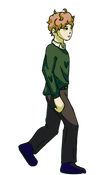
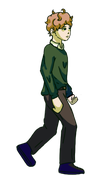
Арт художниц: гардероб, сцена спасения, новые кадры героя

diff --git a/tools/prepare_character.py b/tools/prepare_character.py
@@ -2,7 +2,8 @@
 
 Художник рисует кадры крупно и на холстах разного размера. Скрипт уменьшает их
 до игрового роста, выравнивает по корпусу и ступням и сохраняет на одинаковых холстах,
-чтобы анимация не дёргалась.
+чтобы анимация не дёргалась. Кадры должны быть нарисованы в одном масштабе: поля вокруг
+персонажа могут быть любыми, а сам персонаж одного размера.
 
 Запуск:
     python tools/prepare_character.py <папка для результата> <рост в пикселях> <кадр 1> <кадр 2> ...
@@ -21,6 +22,17 @@ TORSO_TOP = 0.28
 TORSO_BOTTOM = 0.46
 
 
+def content_box(image: Image.Image) -> tuple[int, int, int, int]:
+    """Находит границы персонажа на кадре.
+
+    image: кадр с прозрачным фоном.
+    Возвращает левую, верхнюю, правую и нижнюю границы плотных пикселей; полупрозрачный
+    мусор по краям не учитывается.
+    """
+    solid = image.getchannel("A").point(lambda value: 255 if value > ALPHA_SOLID else 0)
+    return solid.getbbox()
+
+
 def torso_center(image: Image.Image) -> float:
     """Находит середину корпуса по горизонтали.
 
@@ -29,7 +41,7 @@ def torso_center(image: Image.Image) -> float:
     совмещаются друг с другом.
     """
     alpha = image.getchannel("A")
-    left, top, right, bottom = alpha.getbbox()
+    left, top, right, bottom = content_box(image)
     band = alpha.crop((left, int(top + (bottom - top) * TORSO_TOP), right, int(top + (bottom - top) * TORSO_BOTTOM)))
     columns = [x for x in range(band.width) for y in range(band.height) if band.getpixel((x, y)) > ALPHA_SOLID]
     return left + statistics.fmean(columns)
@@ -44,20 +56,19 @@ def prepare(output_dir: Path, height: int, sources: list[Path]) -> None:
     Ничего не возвращает; печатает размер готового холста.
     """
     frames = [Image.open(path).convert("RGBA") for path in sources]
-    boxes = [frame.getchannel("A").getbbox() for frame in frames]
+    boxes = [content_box(frame) for frame in frames]
     scale = height / statistics.median(box[3] - box[1] for box in boxes)
     centers = [torso_center(frame) for frame in frames]
-    baseline = max(box[3] for box in boxes)
     reach = max(max(center - box[0], box[2] - center) for center, box in zip(centers, boxes))
-    rise = max(baseline - box[1] for box in boxes)
+    rise = max(box[3] - box[1] for box in boxes)
     half_width = int(reach * scale) + 2
     canvas_size = (half_width * 2, int(rise * scale) + 2)
     output_dir.mkdir(parents=True, exist_ok=True)
-    for index, (frame, center) in enumerate(zip(frames, centers), start=1):
+    for index, (frame, center, box) in enumerate(zip(frames, centers, boxes), start=1):
         size = (max(round(frame.width * scale), 1), max(round(frame.height * scale), 1))
         small = frame.resize(size, Image.LANCZOS)
         canvas = Image.new("RGBA", canvas_size, (0, 0, 0, 0))
-        canvas.alpha_composite(small, (half_width - round(center * scale), canvas_size[1] - round(baseline * scale)))
+        canvas.alpha_composite(small, (half_width - round(center * scale), canvas_size[1] - round(box[3] * scale)))
         canvas.save(output_dir / f"walk_{index}.png")
     print(f"Кадров: {len(frames)}, холст {canvas_size[0]}x{canvas_size[1]}")
 

diff --git a/tools/prepare_scene.py b/tools/prepare_scene.py
@@ -1,0 +1,45 @@
+"""Готовит слои сцены от художника к игре.
+
+Художник рисует фон и слои поверх него крупно, иногда с разным разрешением. Скрипт
+приводит все слои к одному холсту игровой высоты и убирает почти прозрачный мусор,
+который остаётся после вырезания фона.
+
+Запуск:
+    python tools/prepare_scene.py <папка для результата> <высота в пикселях> <имя=файл> <имя=файл> ...
+
+Первый файл задаёт пропорции холста. Нужна библиотека Pillow.
+Результат: файлы <имя>.png одинакового размера.
+"""
+
+import sys
+from pathlib import Path
+
+from PIL import Image
+
+ALPHA_NOISE = 40
+
+
+def prepare(output_dir: Path, height: int, layers: list[tuple[str, Path]]) -> None:
+    """Уменьшает слои до общего холста и сохраняет их в папку.
+
+    output_dir: папка, куда записать готовые слои.
+    height: высота холста в игре в пикселях.
+    layers: пары «имя результата, исходный файл»; первый слой задаёт пропорции.
+    Ничего не возвращает; печатает размер готового холста.
+    """
+    first = Image.open(layers[0][1])
+    size = (round(first.width * height / first.height), height)
+    output_dir.mkdir(parents=True, exist_ok=True)
+    for name, path in layers:
+        layer = Image.open(path).convert("RGBA").resize(size, Image.LANCZOS)
+        alpha = layer.getchannel("A").point(lambda value: 0 if value < ALPHA_NOISE else value)
+        layer.putalpha(alpha)
+        layer.save(output_dir / f"{name}.png")
+    print(f"Слоёв: {len(layers)}, холст {size[0]}x{size[1]}")
+
+
+if __name__ == "__main__":
+    if len(sys.argv) < 4:
+        sys.exit(__doc__)
+    pairs = [value.split("=", 1) for value in sys.argv[3:]]
+    prepare(Path(sys.argv[1]), int(sys.argv[2]), [(name, Path(path)) for name, path in pairs])
